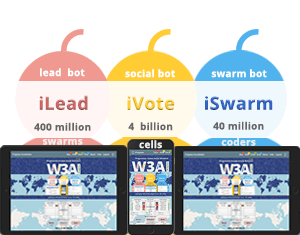
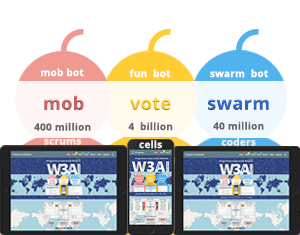
re-wording to fun/cash mob OS theme

diff --git a/src/app/welcome/welcome.component.ts b/src/app/welcome/welcome.component.ts
@@ -65,9 +65,17 @@ export interface Tile {
 })
 export class WelcomeComponent implements OnInit, AfterViewInit {
 
-  prj_state = 'new';
-  srv_state = 'new';
 
+  // project p and service s index within an interest/tag pair
+  // e.g. for one interest tag/link we could have 2 projects (p=2) and 3 services (s=3)
+  // that are linked through that interest tag
+  p: number = 0;
+  s: number = 0; 
+  // project and service state for the manual/visual loop - 2 values new | same as the loop goes thought each p|s combinations
+  prj_state: string = 'new';
+  srv_state: string = 'new';
+
+  // This tile array was a prep experiment for bot messaging / sonar animation over the social network matrix 
   tiles: Tile[] = [
     {text: '', cols: 1, rows: 1, color: ''},
     {text: '', cols: 1, rows: 1, color: ''},
@@ -126,7 +134,10 @@ export class WelcomeComponent implements OnInit, AfterViewInit {
   queue = q1.queue;
 
   tagsCounter: number;
-  i: number = 0;
+  i: number = 0;            // interest/tags loop index
+  l: number = 0;            // link index for the manual / visual pace/speed
+  c: number = 0;            // # of projects x services combinations for a link tag
+  x: number = 0;            // index of combinations c - for looping through the combinations
 
   nrInterests = 7;  // 7 Default interests :-)
 
@@ -255,8 +266,32 @@ export class WelcomeComponent implements OnInit, AfterViewInit {
 
     this.i++;   // increment the index of the DNA Queue - Circular List
 
-    /* If pace set to manual alternate project state between new and transition */
+    /* If pace set to manual alternate project state between new and transition 
+    loop index i is now extended to include for each link/tag 
+    the number of projects or services or combinations p x s 
+    that need to be diplayed in the manual set */
     if (this.setup === 'manual') {
+
+      // update link index
+      this.l = (this.i - 1) % this.nrLinks;   // [ ToDo ] - This should happen only once when entering the manual state
+      // - after l is set i will continue to increment and provide a tick for changes
+      // but l (link id) and x - id of pxs combinations will determine the manual visualization state 
+
+      // get the nr of projects and services from the interest tags table
+      this.p = this.tag[this.l][1];
+      this.s = this.tag[this.l][2];
+
+      // set the number of combinations c we have to loop through for a link/tag
+      if ( (this.p > 0) && (this.s > 0) ) {
+        this.c = this.p * this.s;
+      } else {
+        if (this.p > 0) {
+          this.c = this.p;
+        } else {
+          this.c = this.s;
+        }
+      }
+
       Math.random() < 0.3 ? this.prj_state = 'new' : this.prj_state = 'same';   // random values during animation dev
       Math.random() > 0.3 ? this.srv_state = 'new' : this.srv_state = 'same';
     }
@@ -366,7 +401,7 @@ export class WelcomeComponent implements OnInit, AfterViewInit {
 
       this.tag[t] = new Array(6); // to write 5 values 
       this.tag[t][0] = q1.queue[t][0]; // Read into tag[] the link value from Column 1 / A
-      this.tag[t][1] = q1.queue[t][2]; // Read into tag[] the nr problems/tag value from Column 3 / C
+      this.tag[t][1] = q1.queue[t][2]; // Read into tag[] the nr projects/problems/tag value from Column 3 / C
       this.tag[t][2] = q1.queue[t][255]; // Read into tag[] the nr services/tag value from Column 18 / R
       // Added on Nov 2, 2018 
       // tag[t][3] to store Total Bids (Projects) per tag

diff --git a/src/app/welcome/welcome.component.html b/src/app/welcome/welcome.component.html
@@ -3,7 +3,7 @@
   <img id="innovators" class="web-show" src="/assets/img/innovators-400.jpg" height="235">
 
   <div class="mission">
-    <h4 id="leaders">4  &nbsp;fun  &nbsp;days &nbsp;weekend</h4>
+    <h4 id="leaders">mob OS for billion cells</h4>
   </div>
 
   <div class="slow-world" [ngStyle]="{'background-position-x': setSlowWorldMove() + 'px'}">
@@ -60,7 +60,7 @@
             </li>
 
             <li class="mob-in">
-                <a routerLink="/signup"><button class="auth-button" mat-button>weSwarm</button></a>
+                <a routerLink="/signup"><button class="auth-button" mat-button>have fun</button></a>
             </li>
 
           </ol>
@@ -315,15 +315,15 @@
   
       <div id="round-robin-container">
         <div id="interest-container" fxLayout="row" fxLayoutAlign="space-between center">
-          <div>#<br><b>{{ i % nrLinks }}</b></div>
+          <div>#<br><b>{{ l }}</b></div>
           <div>link<br><b>{{ link1 }}</b></div>
-          <div><b>f 101</b><br><b>$ {{ this.tag[(i+2)%this.nrLinks][5] }}</b></div>
+          <div><b>f 101</b><br><b>¢ {{ this.tag[l][5] }}</b></div>
         </div>
         <div id="project-service-container" fxLayout="row" fxLayoutGap="0px" style="width: 300px; height: 200px;">
 
           <div id="project-container" fxLayout="column" fxLayoutAlign="center center" 
           [@prjState]="prj_state">
-            <div id="project-owner-container">{{ nProject1 }}</div>
+            <div id="project-owner-container">#{{p}} - {{ nProject1 }}</div>
             <div id="project-state-container">Owner Image
               <div id="project-state">Next Steps</div>
               <div id="project-state-badges-container"></div>
@@ -332,7 +332,7 @@
 
           <div id="service-container" fxLayout="column" fxLayoutAlign="center center"
           [@srvState]="srv_state">
-            <div id="service-owner-container">{{ nService1 }}</div>
+            <div id="service-owner-container">#{{s}} - {{ nService1 }}</div>
             <div id="service-state-container">Owner Image
                 <div id="service-state">Next Steps</div>
                 <div id="service-state-badges-container"></div>
@@ -445,12 +445,12 @@
   <section class="clone" fxLayout="row" fxLayoutGap="40px">
     <div class="open-source" fxLayout="column" fxLayoutAlign="center center">
       <p><b>w3ai.org</b></p>
-      <p><b><a href="https://w3ai.org">swarm 4 fun<br>public swarms</a></b></p>
+      <p><b><a href="https://w3ai.org">fun mobs<br>public mobs</a></b></p>
       <p>edu | org</p>
     </div>
     <div class="enterprise" fxLayout="column" fxLayoutAlign="center center">
       <p><b>w3ai.net</b></p>
-      <p><b><a href="https://w3ai.net">swarm 4 money<br>business swarms</a></b></p>
+      <p><b><a href="https://w3ai.net">cash mobs<br>business mobs</a></b></p>
       <p>gov | com</p>
     </div>
   </section>

diff --git a/src/app/navigation/header/header.component.html b/src/app/navigation/header/header.component.html
@@ -10,7 +10,7 @@
 <section class="toolbar-text" fxFlex>
 
     <div fxFlex fxLayout fxLayoutAlign="flex-start" fxHide.gt-sm>
-        <a routerLink="/">mob 6</a>
+        <a routerLink="/">fun mob</a>
     </div>
 
     <div xFlex fxLayout fxLayoutAlign="flex-start" fxHide.lt-md>
@@ -19,18 +19,18 @@
 
     <div fxFlex fxLayout fxLayoutAlign="flex-end" fxHide.gt-sm>
         <ul fxLayout fxLayoutAlign="center center" fxLayoutGap="10px" fxLayoutGap.gt-xs="15px" class="navigation-items">
-            <li *ngIf="isAuth$ | async"><a routerLink="/project"><span matBadge="9" matBadgeColor="accent">ideas</span></a></li>            
+            <li *ngIf="isAuth$ | async"><a routerLink="/project"><span matBadge="9" matBadgeColor="accent">idea</span></a></li>            
             <li *ngIf="isAuth$ | async"><a routerLink="/venture"><span matBadge="7" matBadgeColor="warn">vote</span></a></li>
-            <li *ngIf="isAuth$ | async"><a routerLink="/session"><span class="alternate-theme" matBadge="6" matBadgeColor="primary">done</span></a></li>
+            <li *ngIf="isAuth$ | async"><a routerLink="/session"><span class="alternate-theme" matBadge="6" matBadgeColor="primary">fun</span></a></li>
         </ul>
     </div>
     
     <div fxFlex fxLayout fxLayoutAlign="flex-end" fxHide.lt-md>
         <ul fxLayout fxLayoutAlign="center center" fxLayoutGap="10px" fxLayoutGap.gt-xs="15px" class="navigation-items">
 
-            <li *ngIf="isAuth$ | async"><a routerLink="/project"><span matBadge="9" matBadgeColor="accent" matBadgeOverlap="true">ideas</span></a></li>
+            <li *ngIf="isAuth$ | async"><a routerLink="/project"><span matBadge="9" matBadgeColor="accent" matBadgeOverlap="true">idea</span></a></li>
             <li *ngIf="isAuth$ | async"><a routerLink="/venture"><span matBadge="7" matBadgeColor="warn" >vote</span></a></li>
-            <li *ngIf="isAuth$ | async"><a routerLink="/session"><span matBadge="6" class="alternate-theme" matBadgeColor="primary" matBadgeOverlap="true">done</span></a></li>
+            <li *ngIf="isAuth$ | async"><a routerLink="/session"><span matBadge="6" class="alternate-theme" matBadgeColor="primary" matBadgeOverlap="true">fun</span></a></li>
             <li *ngIf="isAuth$ | async"><a routerLink="/session"><span matBadge="8" class="bot-theme" matBadgeColor="primary" matBadgeOverlap="true">bots</span></a></li>
 
             <li *ngIf="!(isAuth$ | async)"><a routerLink="/signup">signup</a></li>

diff --git a/src/app/navigation/header/header.component.ts b/src/app/navigation/header/header.component.ts
@@ -16,7 +16,7 @@ import { SetupService } from '../../setup.service';
 export class HeaderComponent implements OnInit {
   @Output() sidenavToggle = new EventEmitter<void>();
   isAuth$: Observable<boolean>;
-  appTitle = 'mob 6';
+  appTitle = 'fun mob';
 
   constructor(private store: Store<fromRoot.State>, 
               private authService: AuthService,

diff --git a/src/index.html b/src/index.html
@@ -2,7 +2,7 @@
 <html lang="en">
 <head>
   <meta charset="utf-8">
-  <title>mob 6 OS</title>
+  <title>fun mob</title>
   <base href="/">
 
   <meta name="viewport" content="width=device-width, initial-scale=1">
